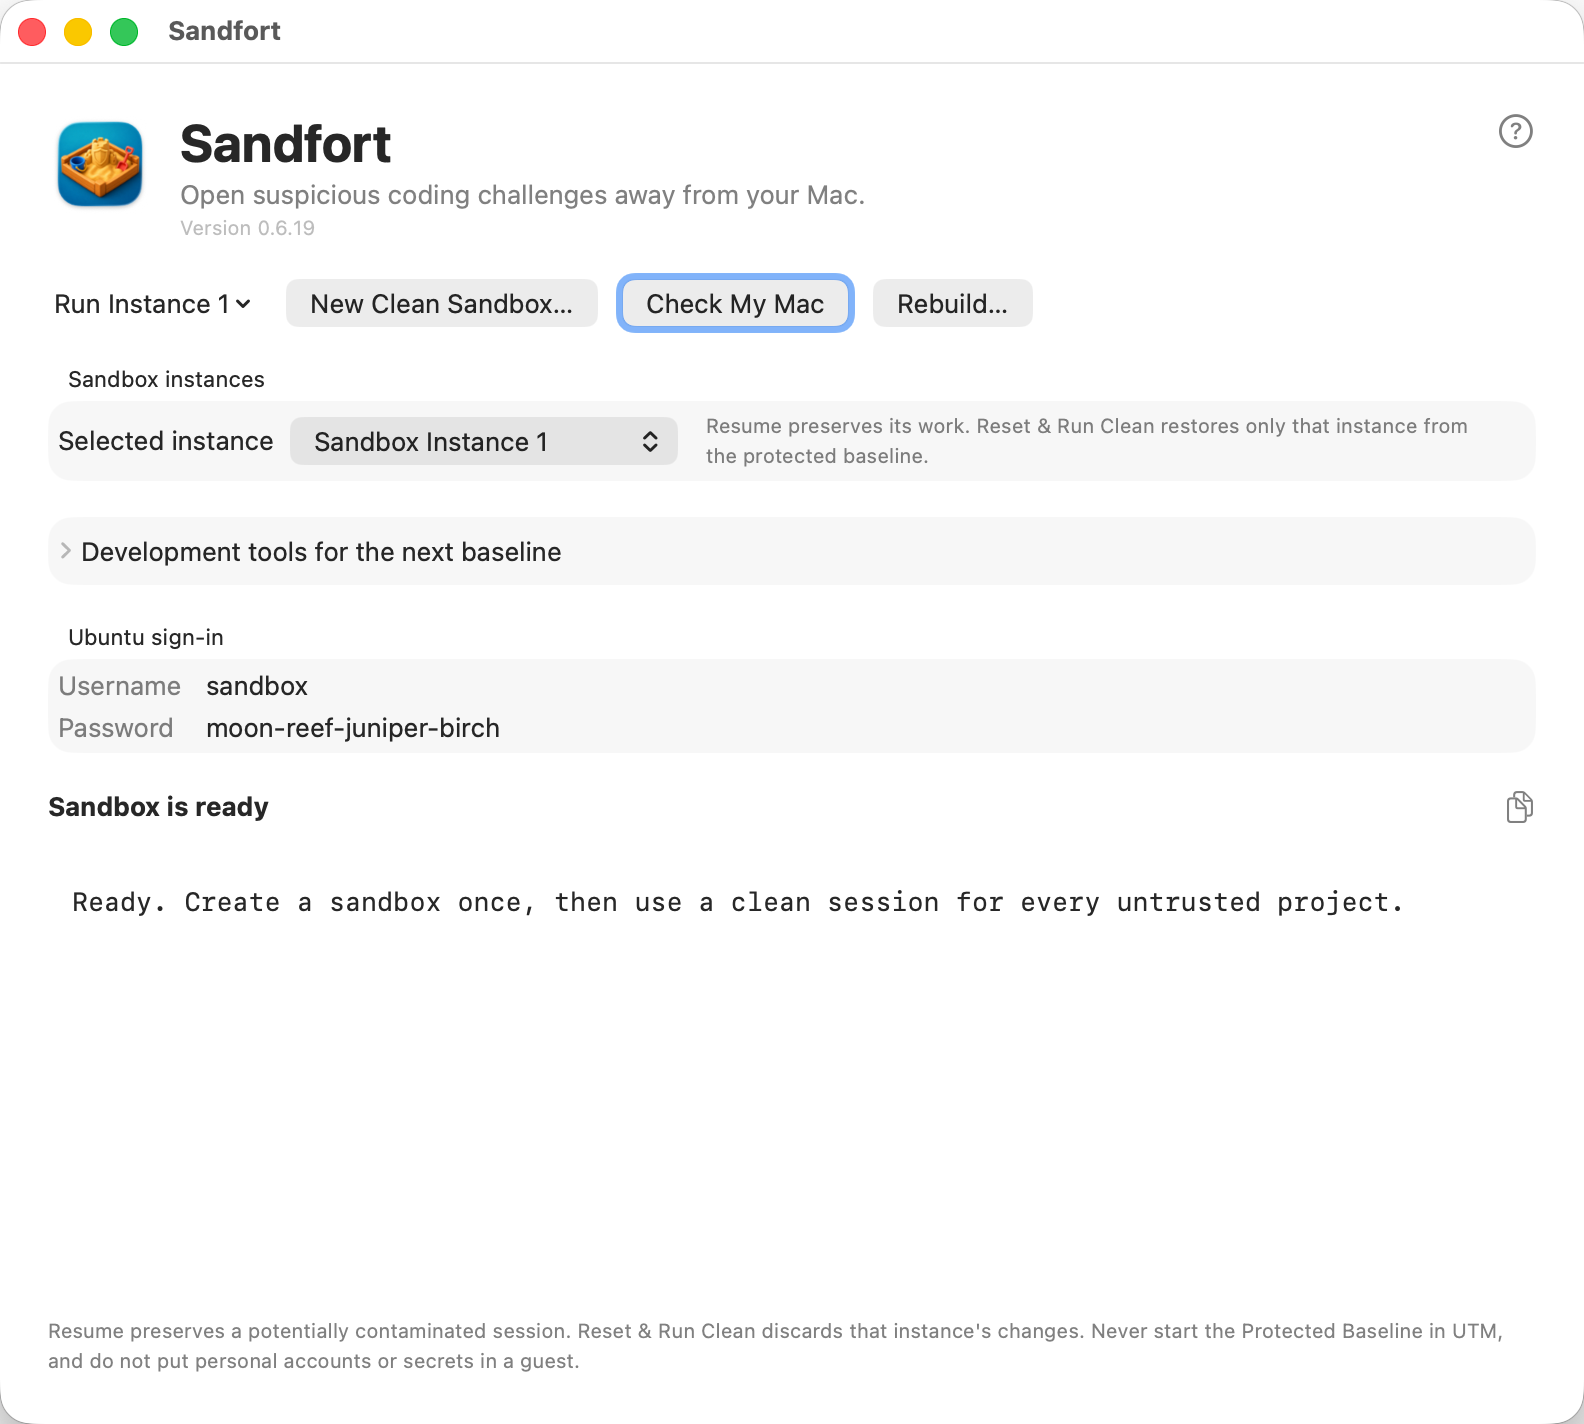
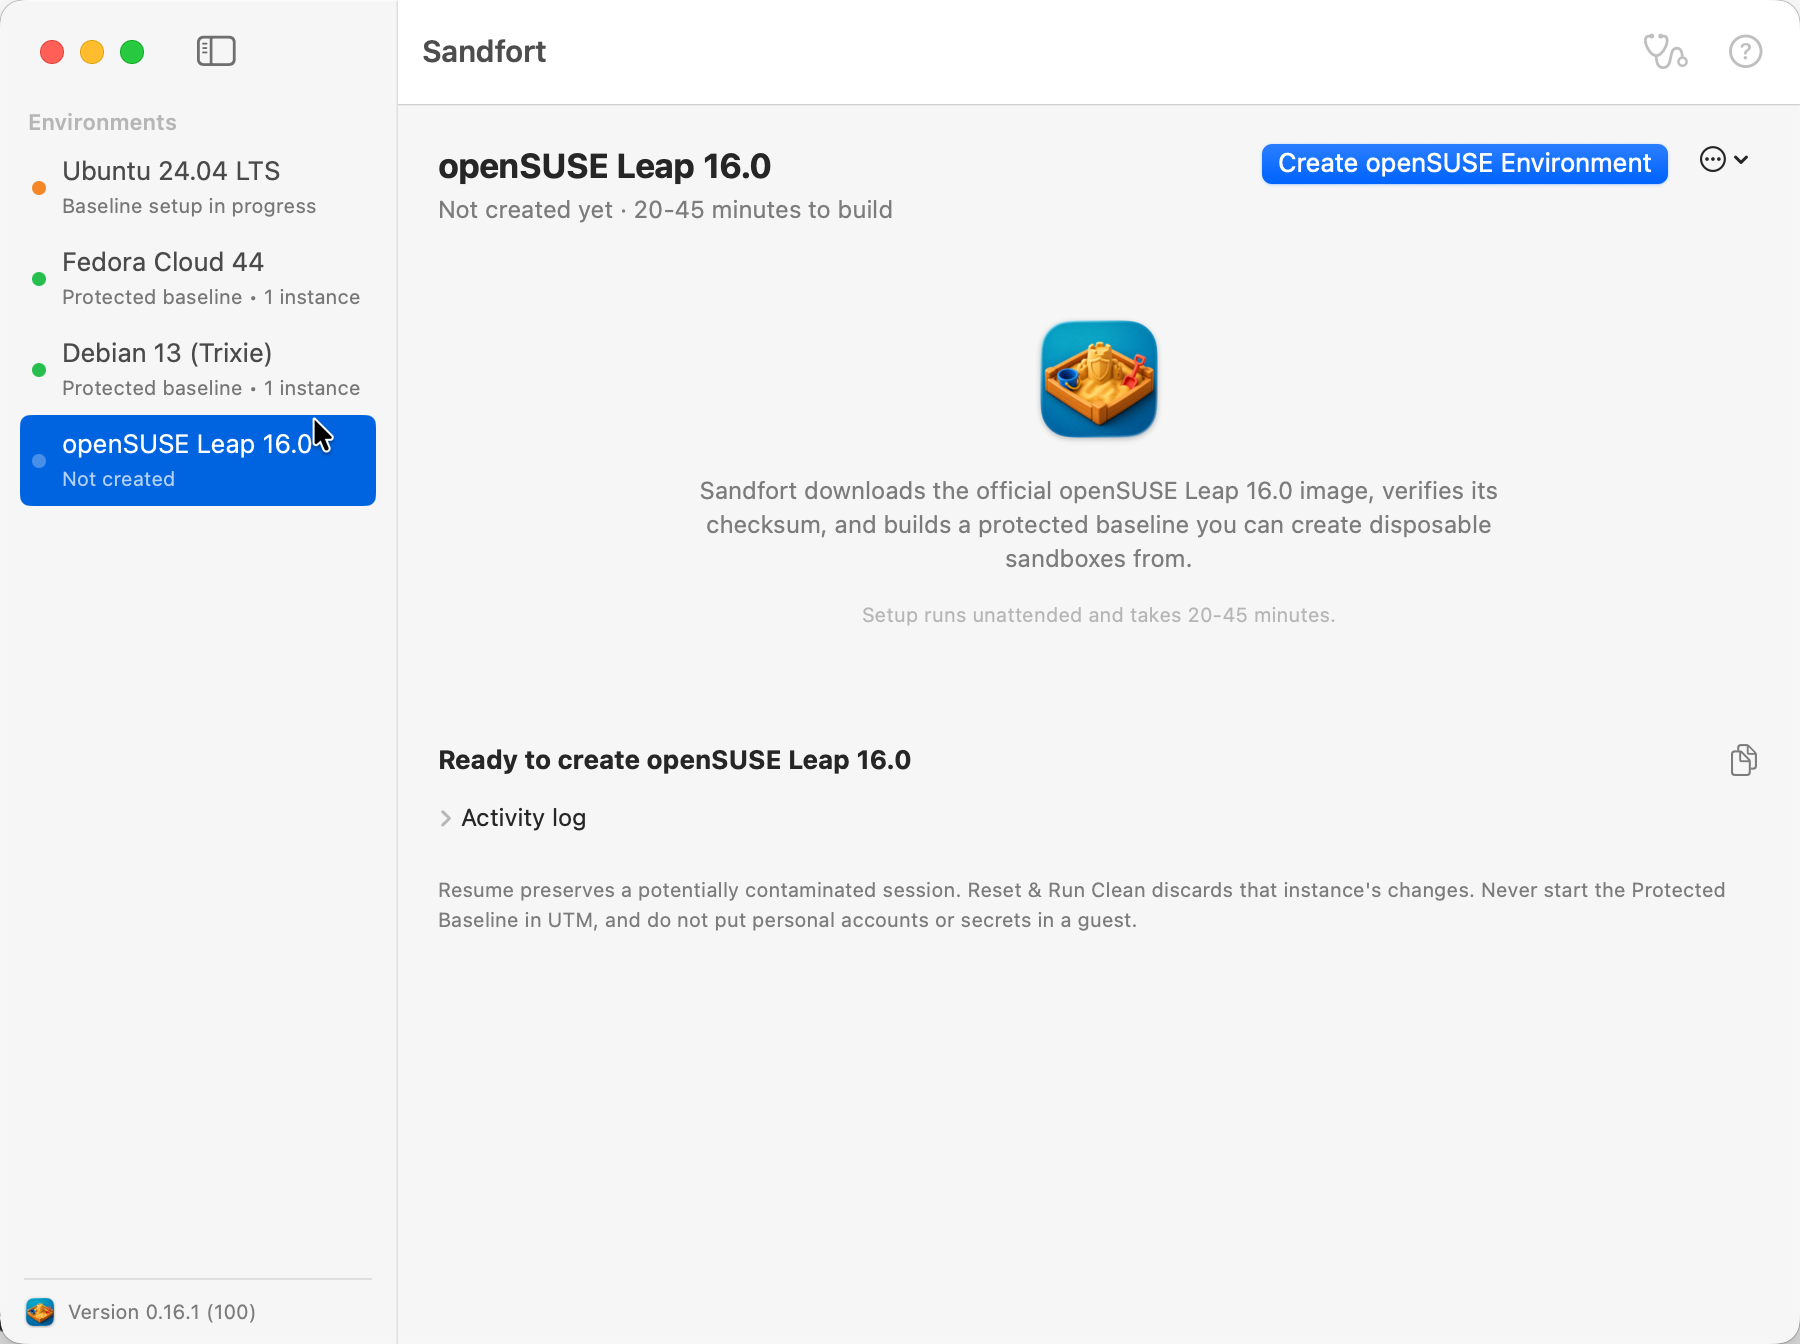
Replace the README screenshot
The old one predated the sidebar redesign and showed a window that no longer
exists. This is 0.16.1, the notarized build.

The alt text described "a ready sandbox instance", which was never what the
image showed and is not what this one shows either; it now describes the
picture, which is the only thing it is useful for.

diff --git a/README.md b/README.md
@@ -21,7 +21,9 @@ native Help Book available from **Help → Sandfort Help** in the app.
 
 ## Screenshot
 
-![Sandfort app showing a ready sandbox instance](assets/Sandfort-screenshot.png)
+![Sandfort's window: four Linux environments in the sidebar, two with protected
+baselines, one mid-setup, and openSUSE Leap 16 selected and ready to
+create](assets/Sandfort-screenshot.png)
 
 ## Quick start
 
